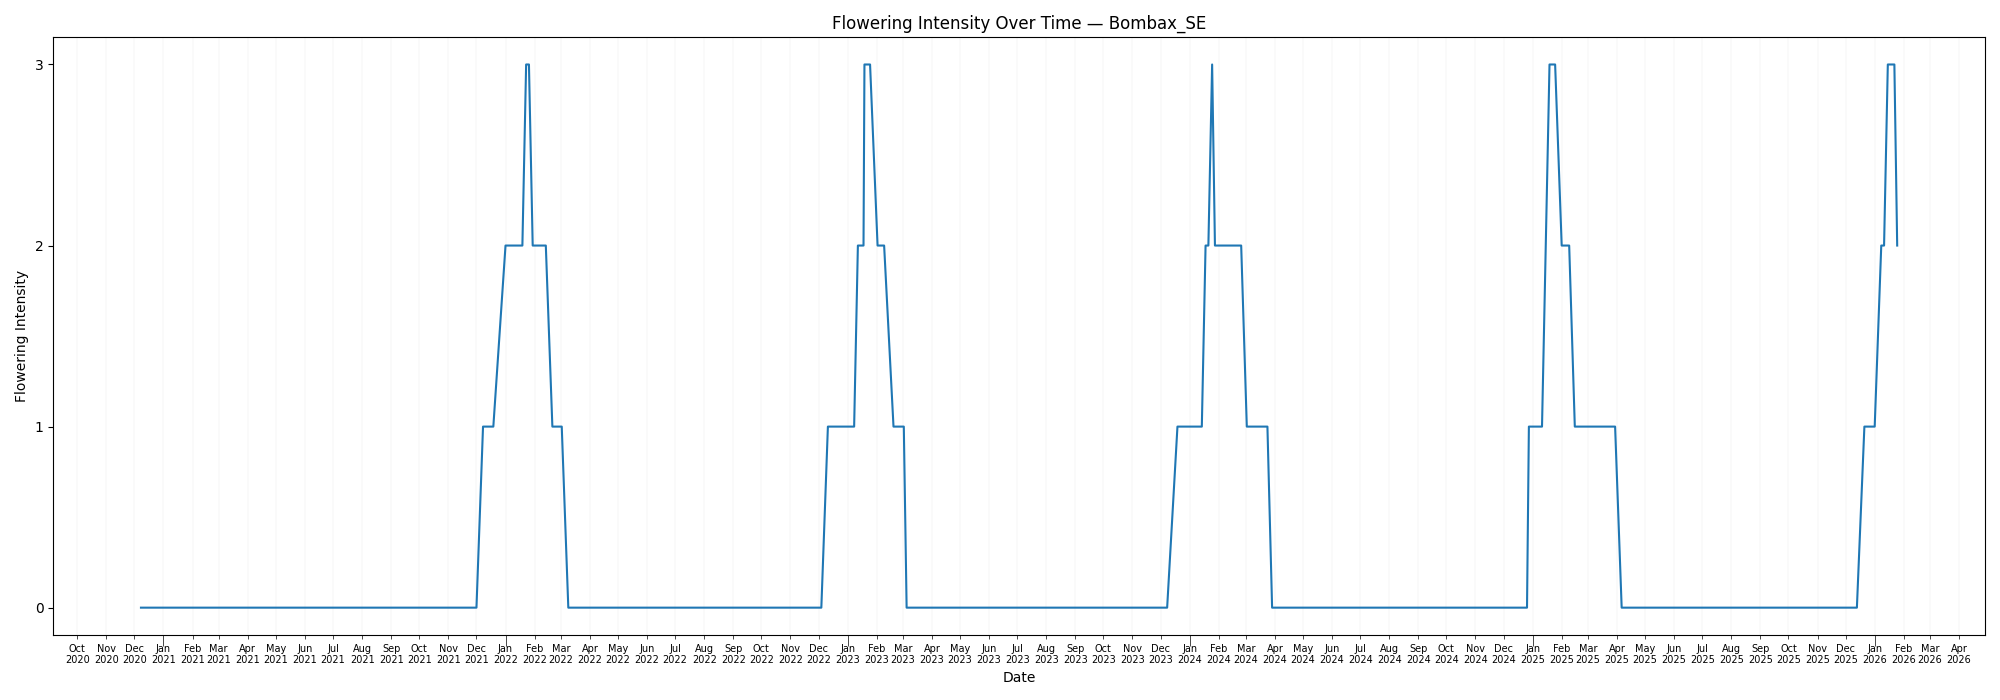
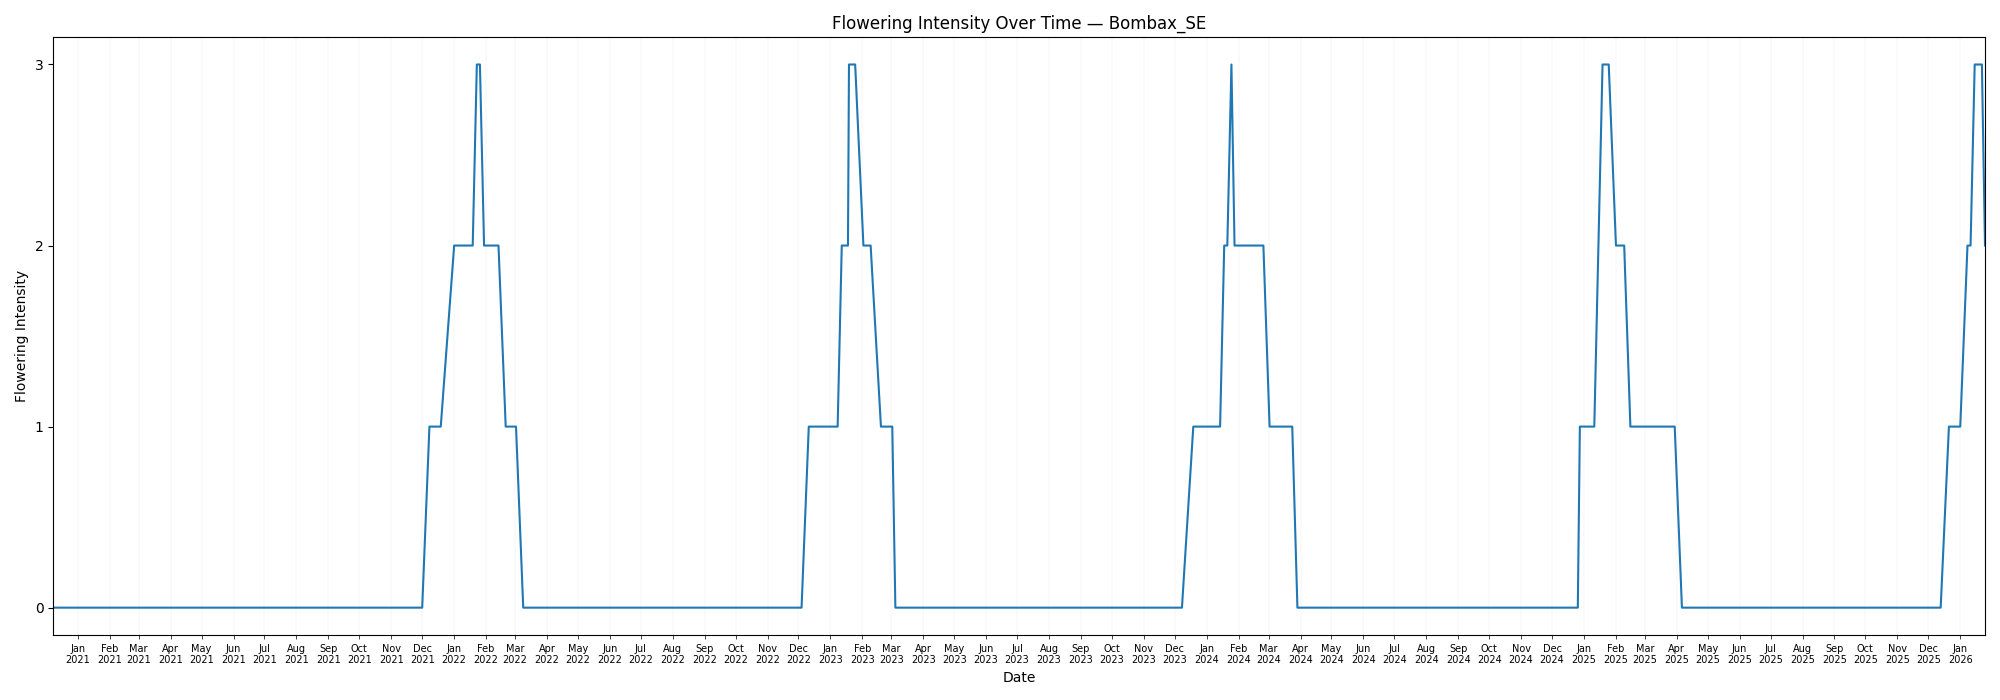
Adjustments to plot images

diff --git a/plots/plot.py b/plots/plot.py
@@ -69,15 +69,11 @@ for site in grouped["site"].unique():
     ax.tick_params(axis='x', length=3, width=0.5)
     plt.xticks(fontsize=7)
 
-    # --- ONLY CHANGE: make January ticks taller ---
-    for tick in ax.xaxis.get_major_ticks():
-        d = mdates.num2date(tick.get_loc())
-        if d.month == 1:
-            tick.tick1line.set_markersize(8)
-            tick.tick2line.set_markersize(8)
-
     # Light grid
     ax.grid(axis='x', linestyle='-', linewidth=0.3, alpha=0.3)
+
+    # Get rid of extra space on left and right, fix margins
+    ax.margins(x=0)
 
     plt.yticks([0, 1, 2, 3])
     plt.tight_layout()
